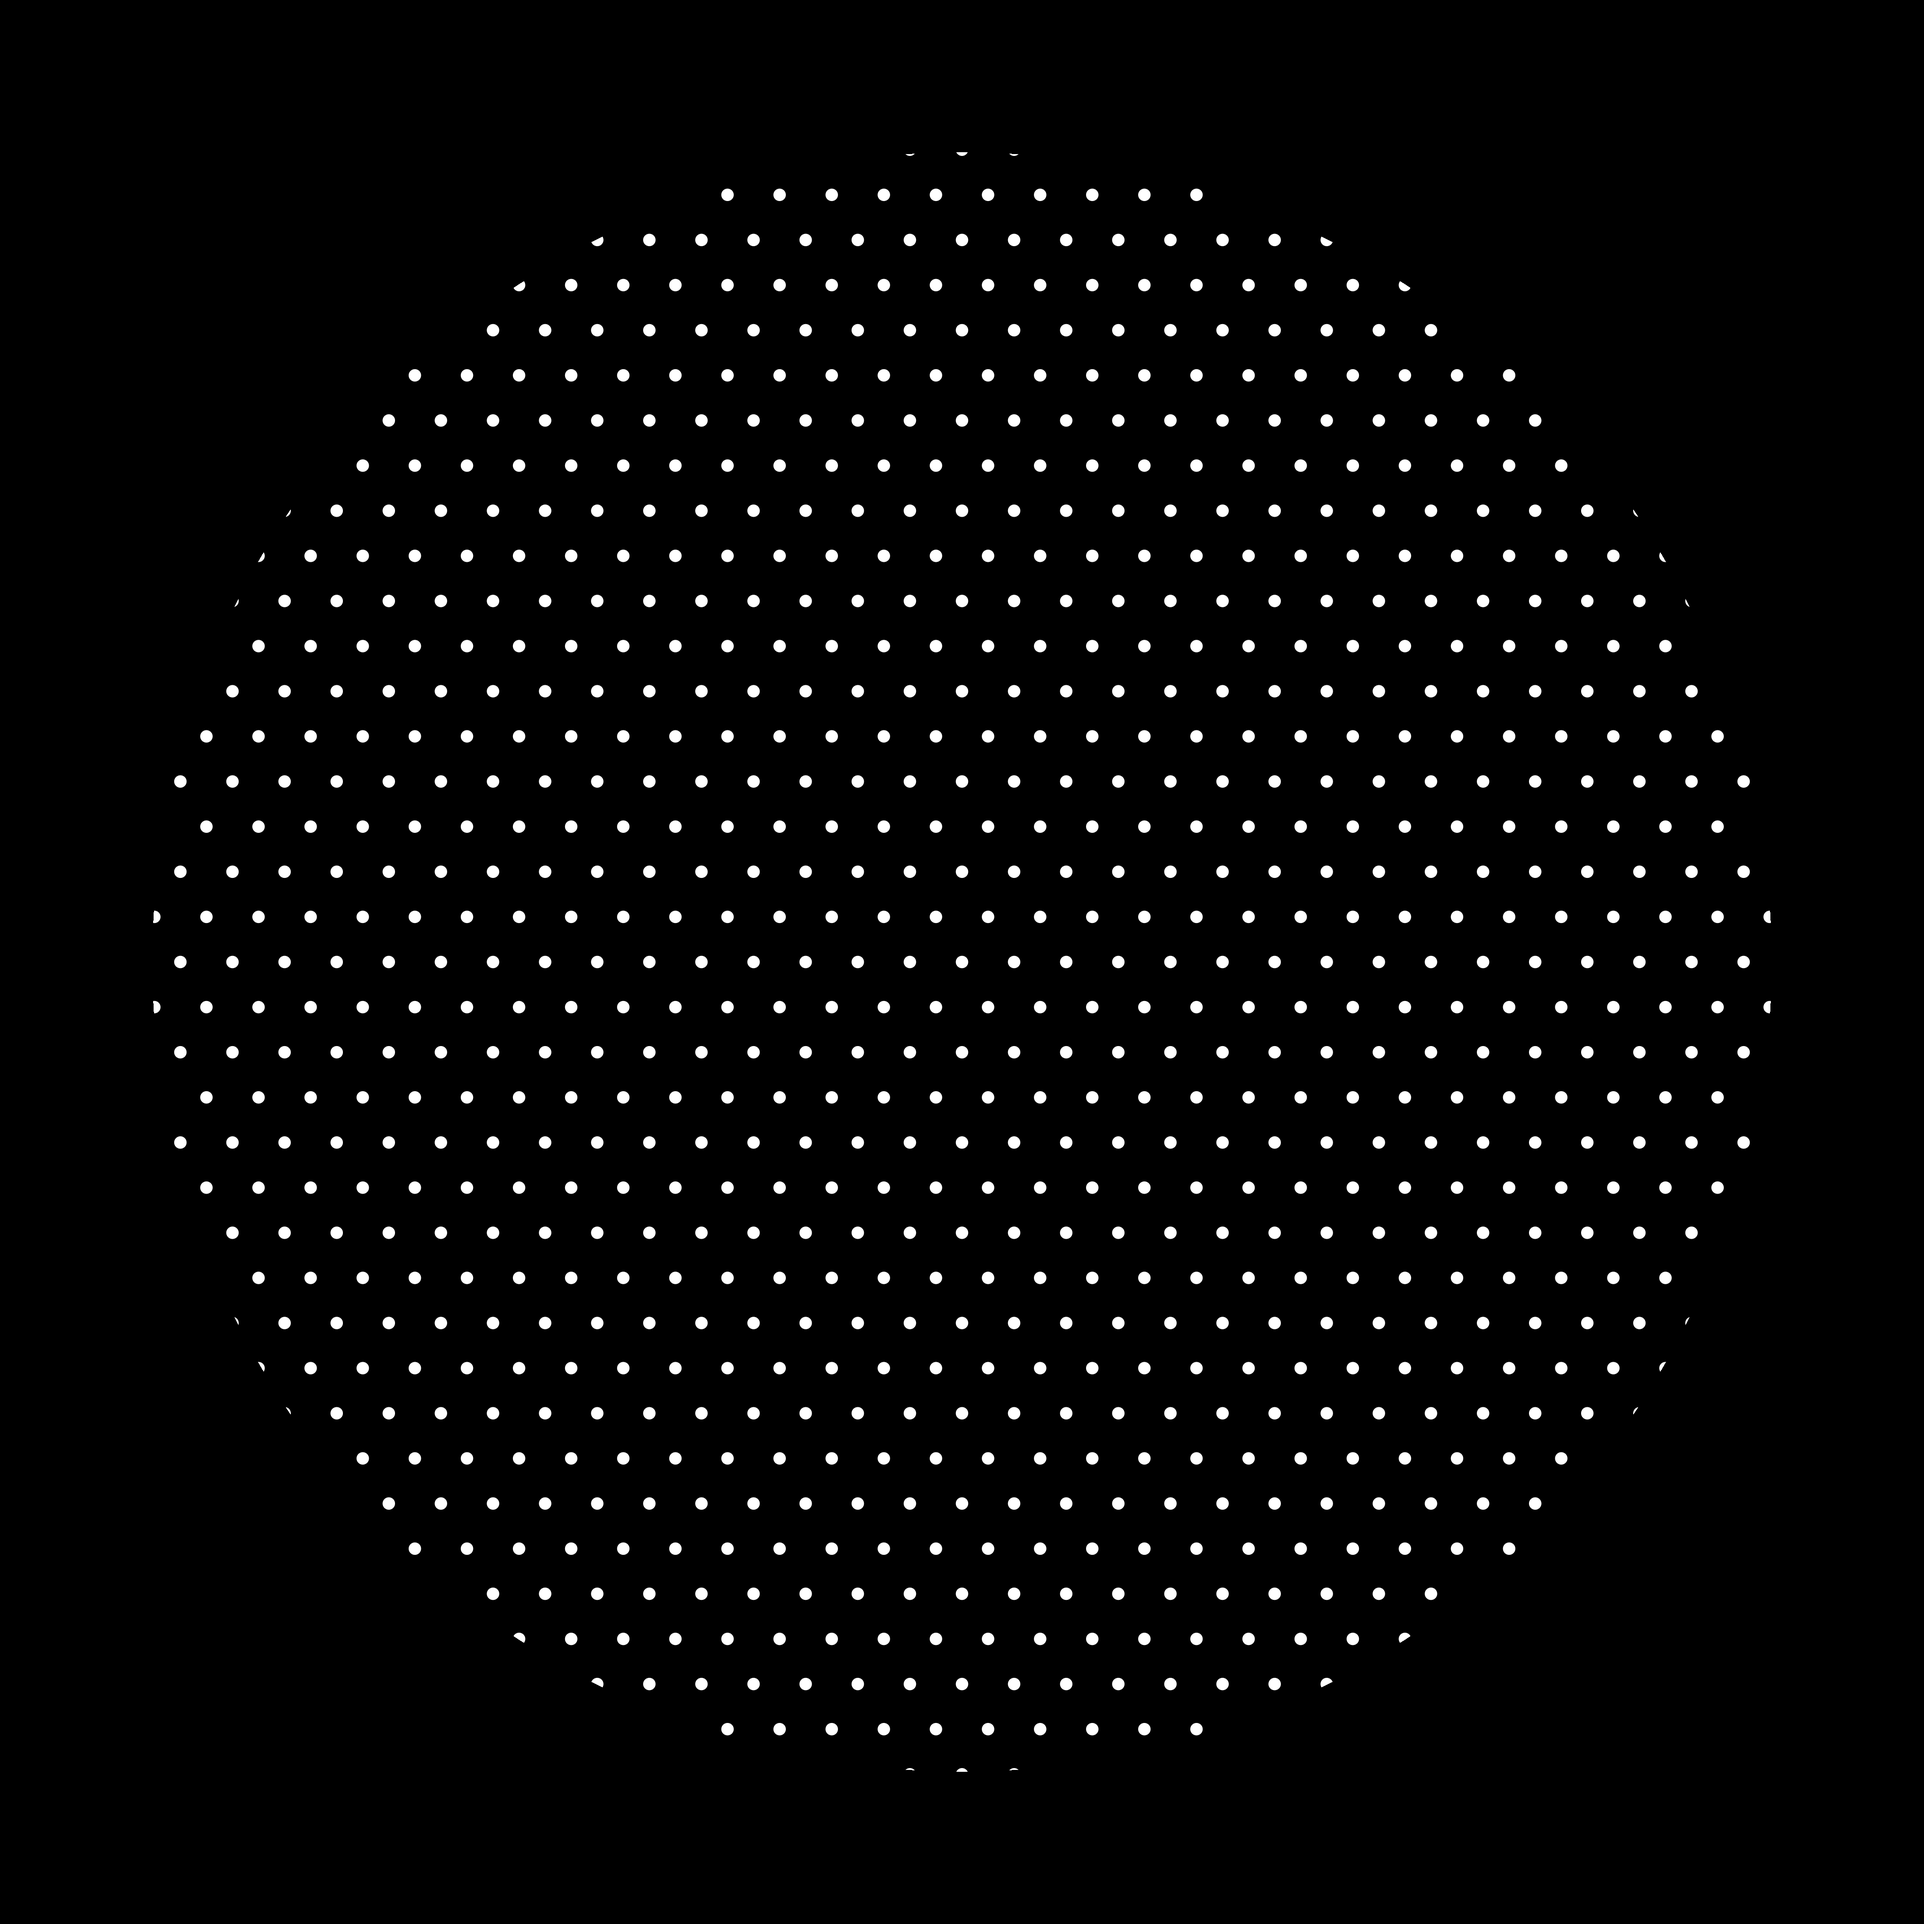
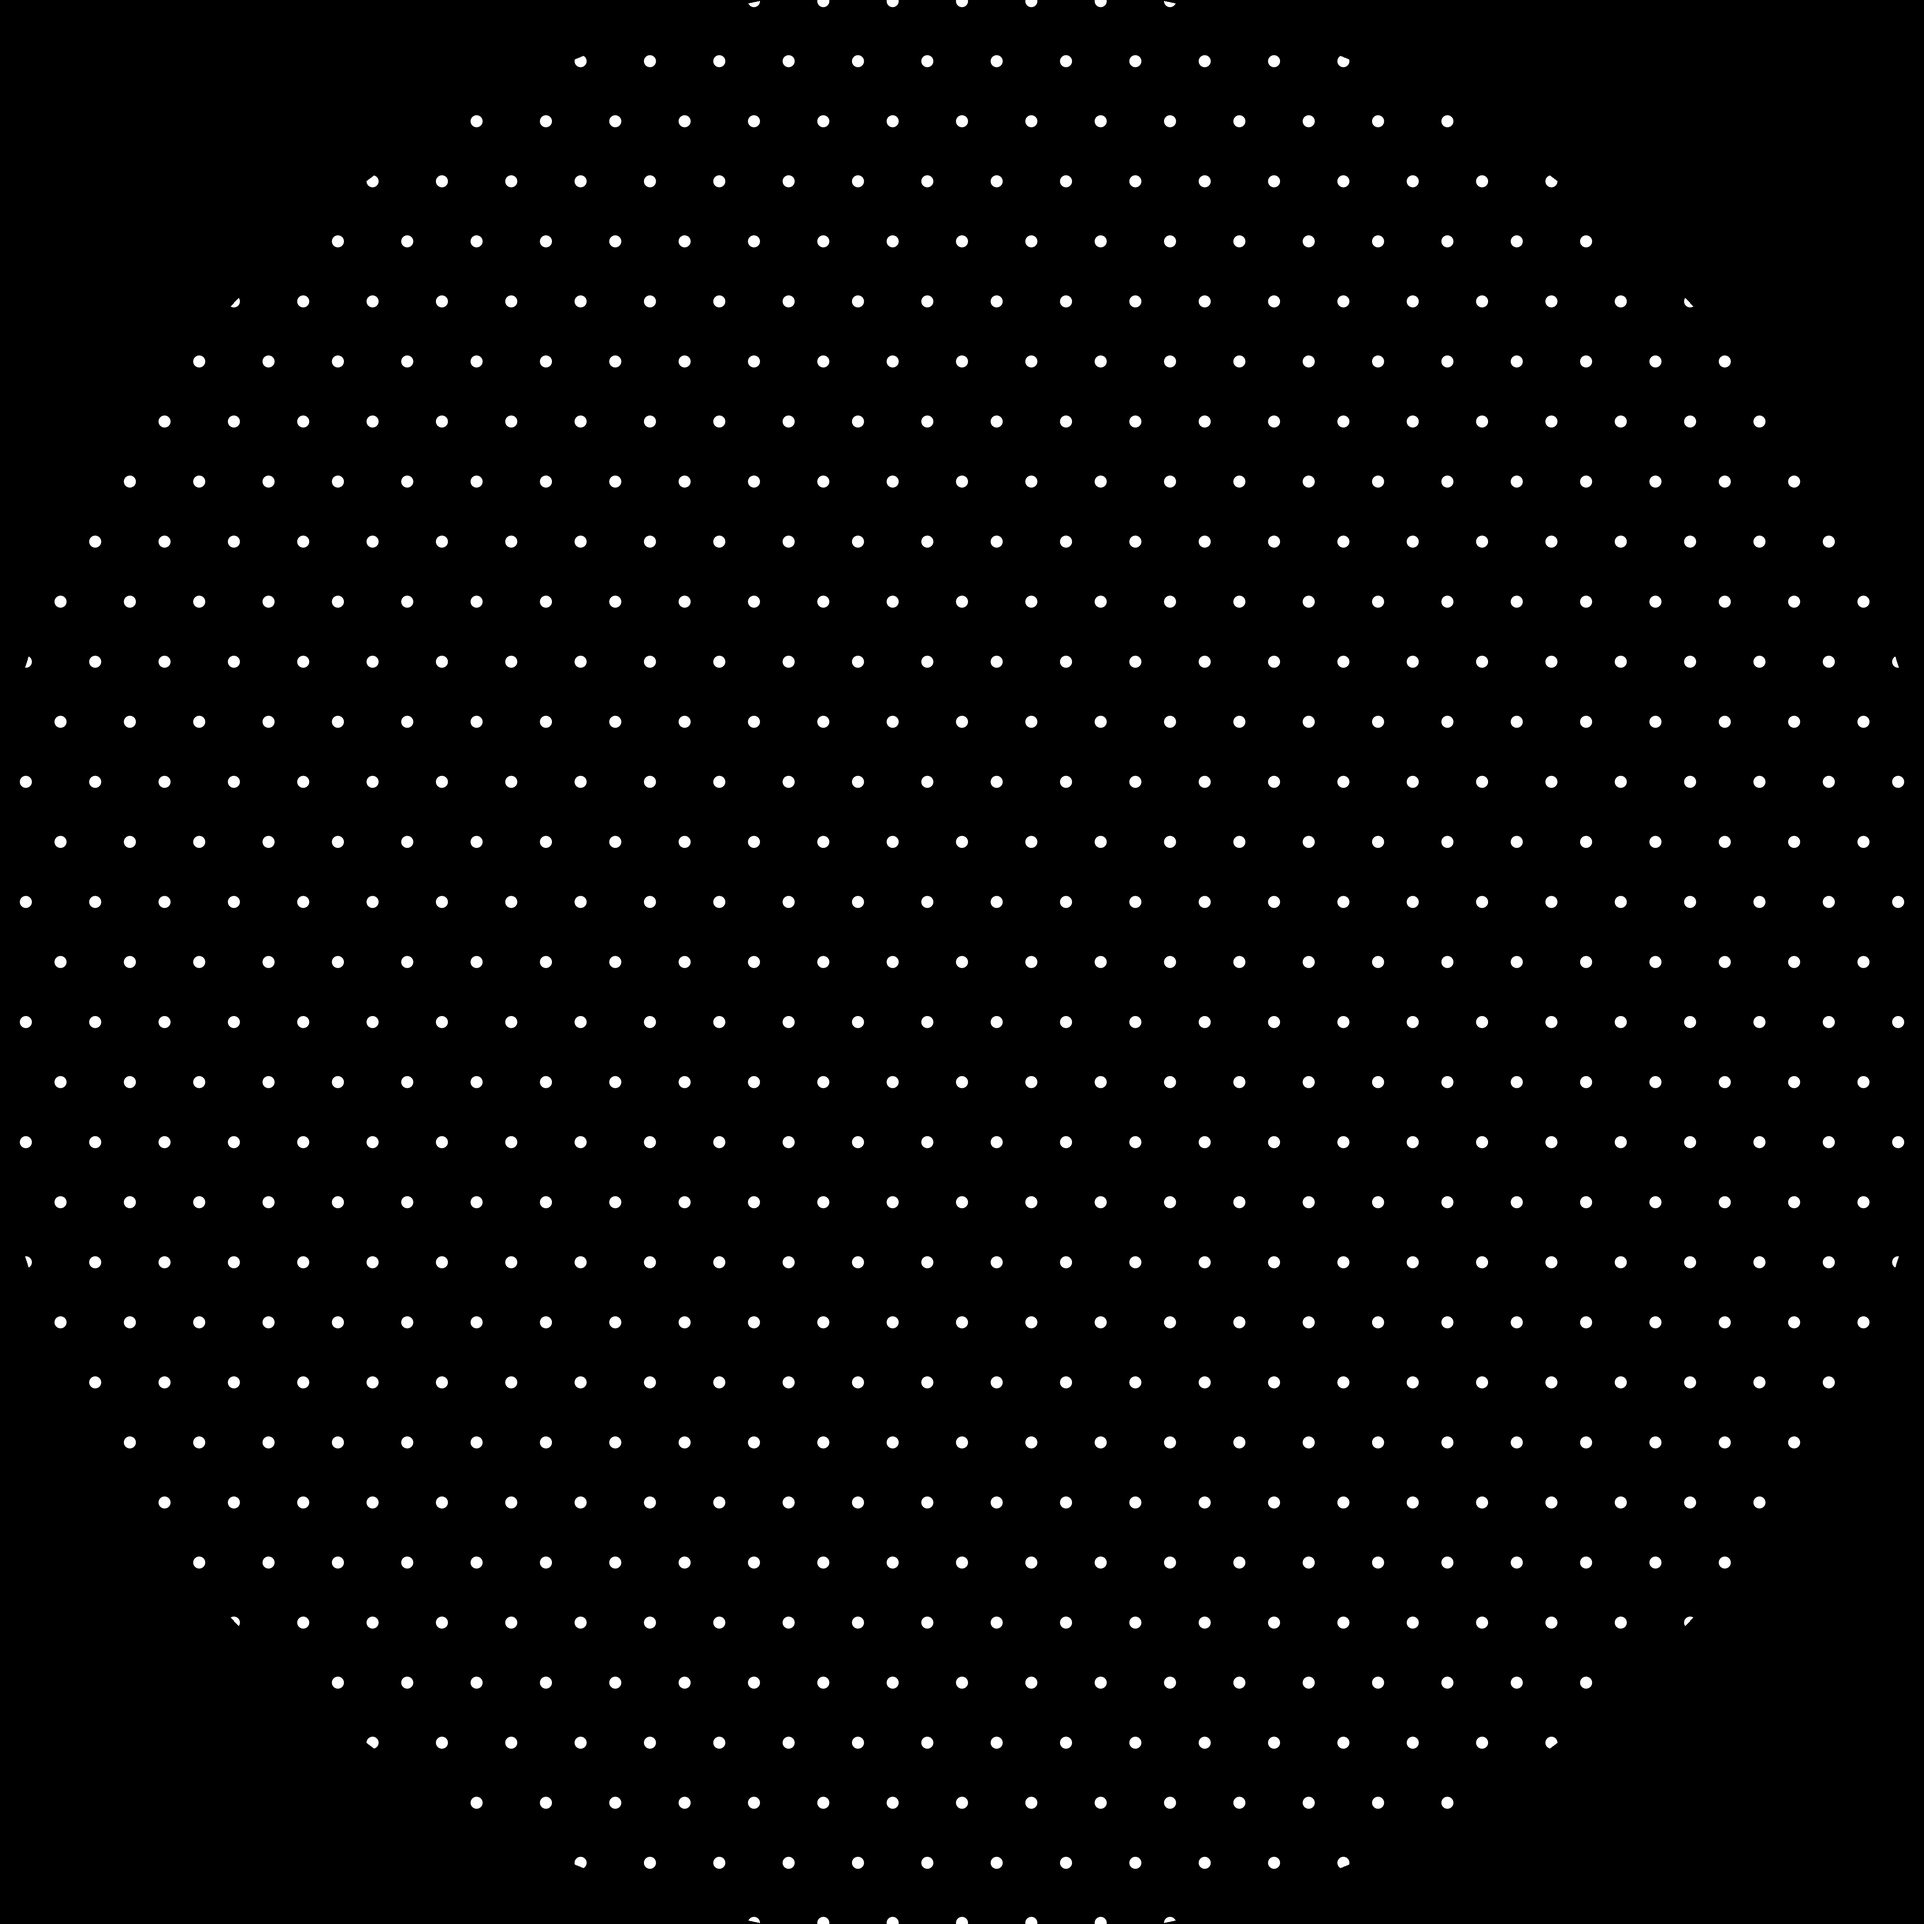
v4: browner crema, basket mask regenerated at build
Claude-Session: https://claude.ai/code/session_01HbZHQHNcD7eBw6gPBdYwJa

diff --git a/sardinian-coffee/v4/coffee/materials.py b/sardinian-coffee/v4/coffee/materials.py
@@ -358,7 +358,9 @@ def crema():
     age = g.attr('age', 'Fac')
     fresh = g.attr('fresh', 'Fac')
     # colour by age and position: centre -> mid -> rim tones, darkened by age
-    base = g.ramp(g.math('MAXIMUM', rim, age), [(0.0, (0.558, 0.242, 0.045)), (0.55, (0.497, 0.162, 0.023)), (0.93, (0.402, 0.129, 0.024)), (1.0, (0.28, 0.085, 0.016))])
+    # photo targets #C5853A / #BB702A / #AA652B include the lighting; as albedo under random-walk SSS they render too
+    # orange, so the ramp is a little darker and browner
+    base = g.ramp(g.math('MAXIMUM', rim, age), [(0.0, (0.44, 0.21, 0.065)), (0.55, (0.34, 0.14, 0.035)), (0.93, (0.25, 0.09, 0.02)), (1.0, (0.16, 0.05, 0.012))])
     warp = g.noise(co, 1.1, detail=3.0).outputs['Color']
     wco = g.node('ShaderNodeMix', data_type='VECTOR')
     g.set(wco.inputs[0], 0.4)
@@ -366,7 +368,8 @@ def crema():
     g.link(warp, wco.inputs[5])
     wv = wco.outputs[1]
     mott = g.noise(wv, 1.6, detail=5.0, rough=0.6)
-    base = g.mix_rgb(g.map_range(mott.outputs['Fac'], 0.3, 0.7, 0.0, 0.22), base, (0.62, 0.3, 0.07), 'MIX')
+    base = g.mix_rgb(g.map_range(mott.outputs['Fac'], 0.3, 0.7, 0.0, 0.35), base, (0.56, 0.3, 0.1), 'MIX')
+    base = g.mix_rgb(g.map_range(mott.outputs['Fac'], 0.25, 0.45, 0.3, 0.0), base, (0.2, 0.075, 0.018), 'MIX')
     # tiger flecks: a few % of fine dark specks, stretched along the flow
     fl = g.noise(g.mapping(wv, (1.0, 4.0, 1.0)), 22.0, detail=2.0, distortion=0.8)
     fleck = g.map_range(fl.outputs['Fac'], 0.66, 0.78, 0.0, 0.45)

diff --git a/sardinian-coffee/v4/build.py b/sardinian-coffee/v4/build.py
@@ -23,12 +23,13 @@ sys.path.insert(0, str(HERE))
 
 import bpy  # noqa: E402
 
-from coffee import common as C, stage as S, titles  # noqa: E402
+from coffee import common as C, materials as M, stage as S, titles  # noqa: E402
 
 
 def main():
     t0 = time.time()
     C.CACHE.mkdir(parents=True, exist_ok=True)
+    M.basket_hole_mask(C.ASSETS / 'basket_holes.png')
     default = bpy.data.scenes[0]
     for ob in list(bpy.data.objects):
         bpy.data.objects.remove(ob)
